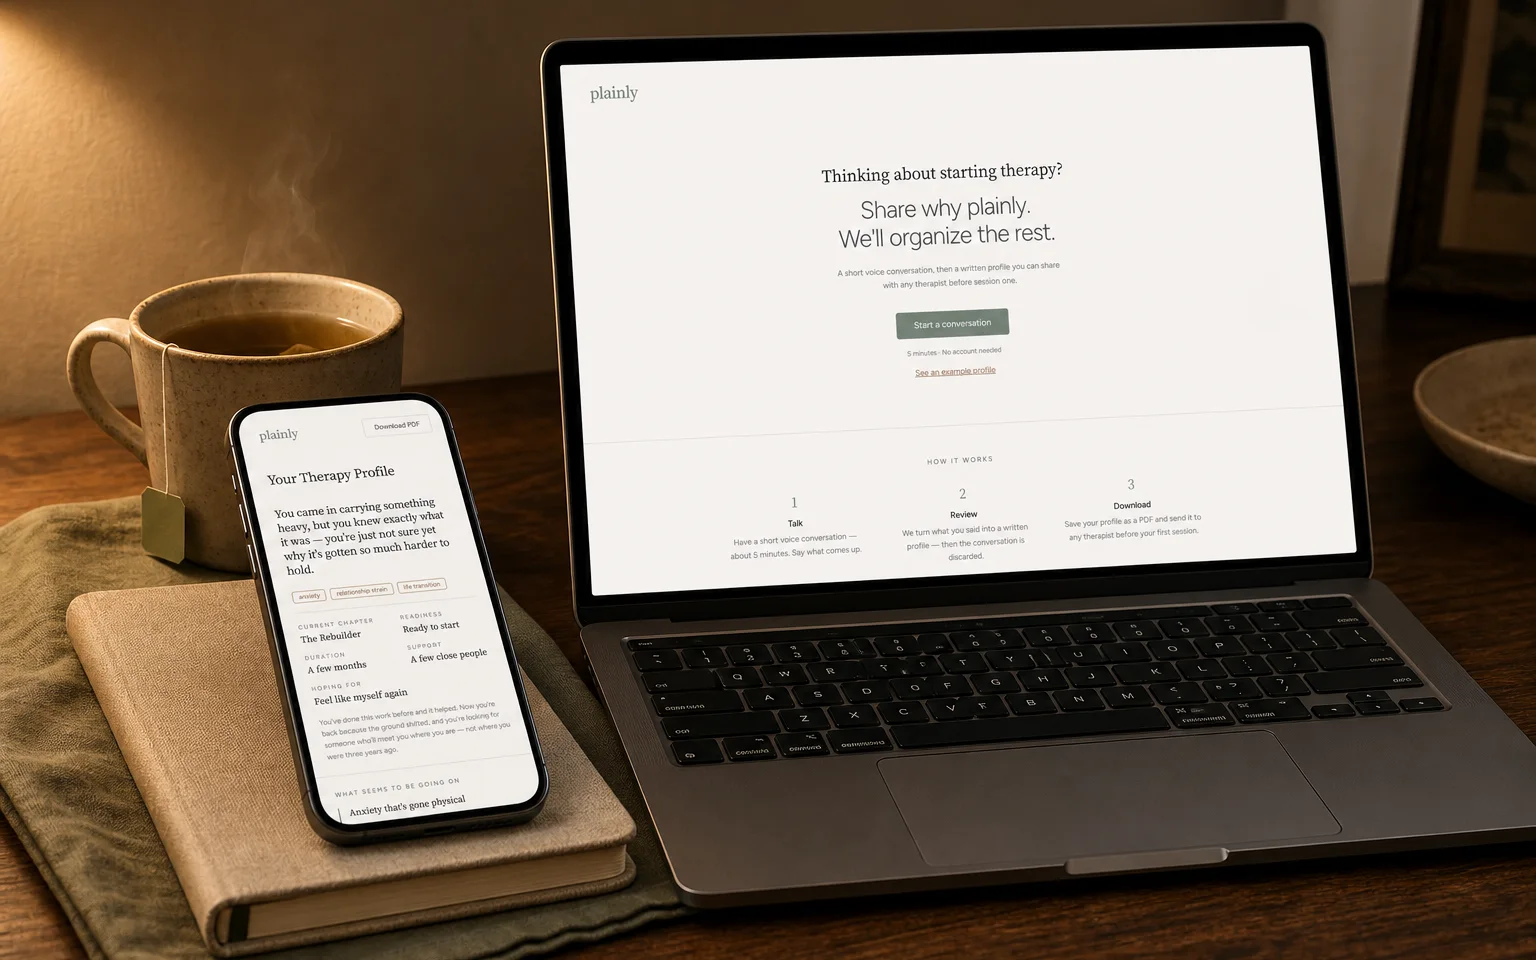
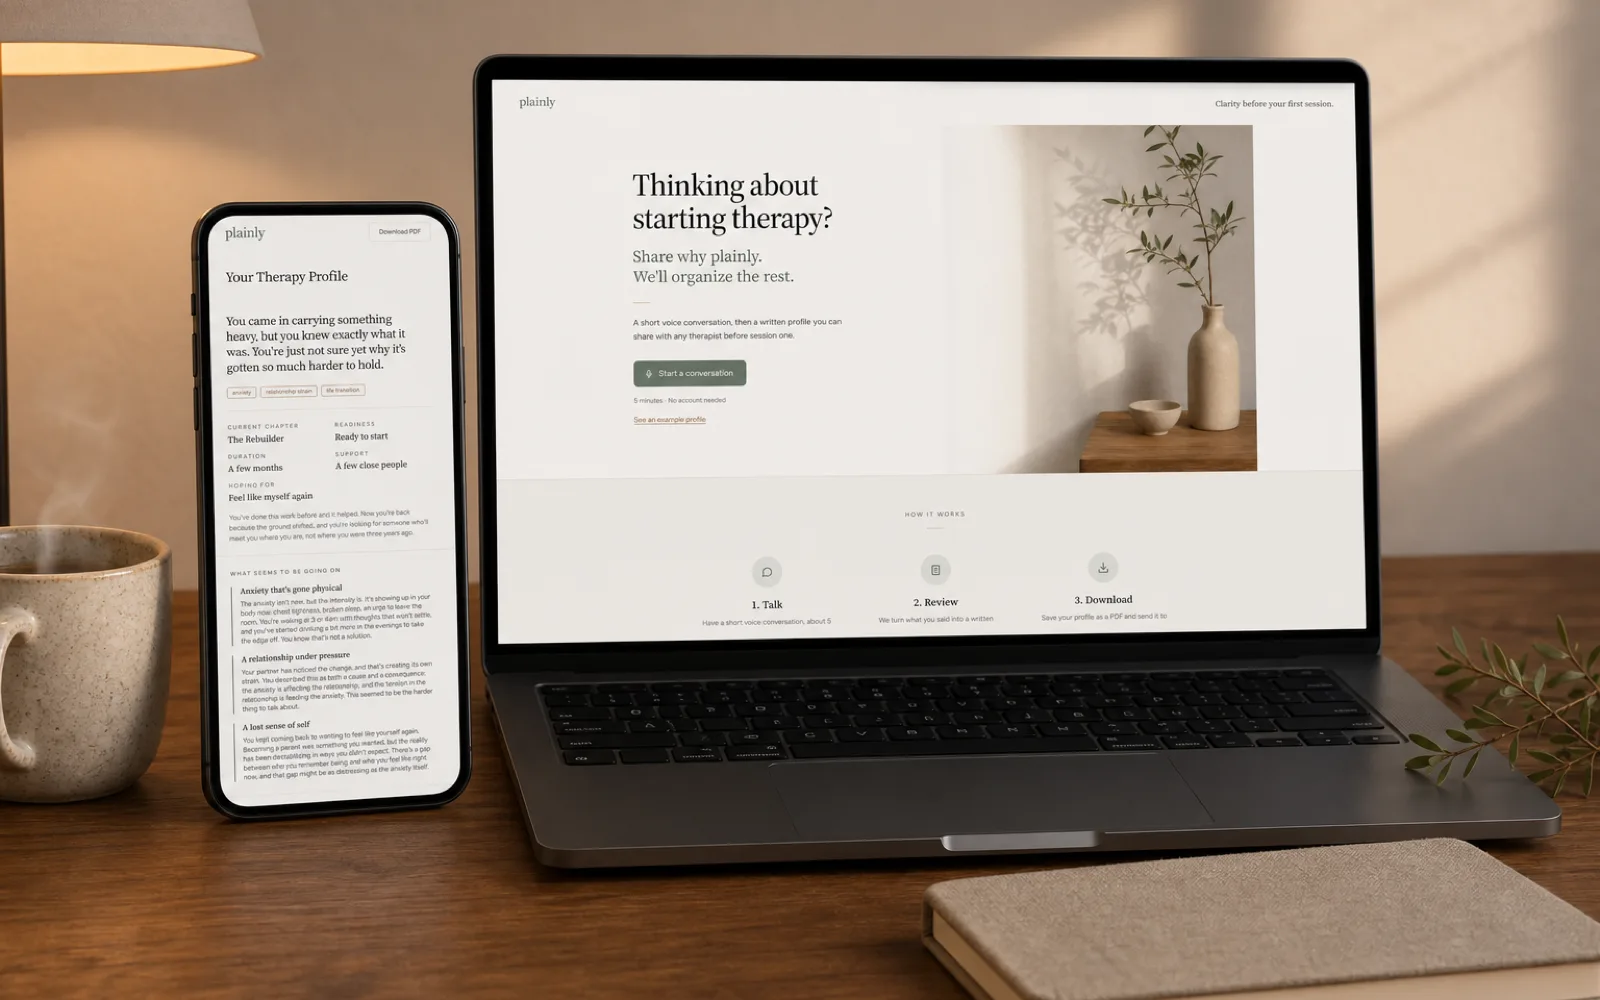
Plainly: new custom domain + refreshed homepage marketing assets
Point the studio-site's Plainly links at the new custom domain
(plainly-therapy.vercel.app -> www.plainlytherapy.com) and refresh the
marketing assets that depict the redesigned homepage:

- Tile (plainly-tile.webp): re-shot device composite showing the new
  left-aligned homepage on the laptop + therapy profile on the phone
- Case-study hero (hero.jpg): new homepage screenshot, manifest regenerated
- Fix tile alt text (tablet -> laptop) to match the composite

diff --git a/src/data/studioProducts.ts b/src/data/studioProducts.ts
@@ -134,11 +134,11 @@ export const studioProducts: StudioProduct[] = [
     stage: "in-development",
     logoSrc: iconPlainly,
     shortDescription: "A voice-first intake tool that turns a conversation into a therapy-ready profile.",
-    artifact: { src: plainlyArtifact, alt: "Plainly shown on a tablet and phone, a voice-first therapy intake tool", type: "prototype" },
+    artifact: { src: plainlyArtifact, alt: "Plainly shown on a laptop and phone, a voice-first therapy intake tool", type: "prototype" },
     builtFor: "People considering therapy who want to arrive prepared.",
     helpsThem: "Turn a short spoken conversation into a profile a therapist can read in a minute.",
     rightNow: "Refining the voice conversation and how it generates a shareable profile.",
-    primaryAction: { label: "Visit Plainly", href: "https://plainly-therapy.vercel.app/", external: true },
+    primaryAction: { label: "Visit Plainly", href: "https://www.plainlytherapy.com/", external: true },
     sortOrder: 3,
   },
   {

diff --git a/src/data/caseStudies.ts b/src/data/caseStudies.ts
@@ -734,8 +734,8 @@ export const caseStudies: CaseStudy[] = [
     statusLabel: "v0",
     borderImages: true,
     category: "recent",
-    externalUrl: "https://plainly-therapy.vercel.app/",
-    externalLabel: "plainly-therapy.vercel.app",
+    externalUrl: "https://www.plainlytherapy.com/",
+    externalLabel: "plainlytherapy.com",
     heroImage: "/case-studies/plainly/hero.jpg",
     heroImageAlt:
       "The Plainly landing page: Share why plainly. We'll organize the rest.",
